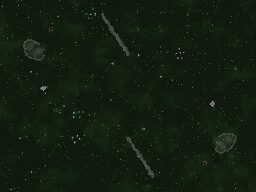
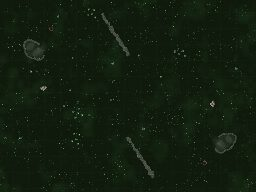
M9 is a mountain: 8 switchbacks, deterministic walls, clear overlays, summit light

diff --git a/game.js b/game.js
@@ -1446,7 +1446,7 @@ const MISSIONS = [
     // emptiness IS the mission's texture).
     title: 'The Silence', act: 'Act II — The Awakening',
     allow: { bld: [], unit: [] },
-    map: 'boneyard', diff: 'normal', noEnemy: true, noBase: true, start: [3950, 3260],
+    map: 'boneyard', diff: 'normal', noEnemy: true, noBase: true, start: [3900, 3380],
     fields: [
       { p: [W * 0.16, H * 0.5], n: 8, a: 2600 },
       { p: [W * 0.84, H * 0.5], n: 8, a: 2600 },
@@ -1459,20 +1459,31 @@ const MISSIONS = [
     // side gates are ridge-plugged for the mission, so the trail and the gate
     // are the ONLY way in — and the only way back out with the survivors.
     terrain: {
-      // HALF-WIDTH TRAIL (2026-08-04 round 2, Bronson: "it needs to be a
-      // challenge... they should fail the mission the first time"): the
-      // corridor squeezes to ~200px — a column, not a formation — with
-      // obstacle pinches at the edges and reinforced tenants at every turn.
+      // THE MOUNTAIN (2026-08-04 round 4, Bronson: "at least 8 switchbacks...
+      // read as a hill climb in its entirety — reach the top, rescue these
+      // idiots, then try and make it down"): eight stacked terrace lanes
+      // (~100px, single file) zigzag up the south face between seven walls
+      // with alternating turn-gaps; vertical walls seal both flanks; the
+      // summit gate is the only exit. `rises` paints the elevation light —
+      // brightest at the peak — so the whole approach reads as climbing.
       ridges: [
-        [4560, 3120, 1600, 3135, 52],   // the bluff: map edge to the hairpin, one wall
-        [1350, 3000, 2300, 2430, 55],   // leg-2 west wall — its south end shapes the hairpin
-        [2200, 3060, 2650, 2500, 55],   // leg-2 east wall, rooted on the bluff — a narrowing funnel
+        [1650, 3298, 3360, 3310, 24],   // W7 — gap WEST  (leg 1 -> 2)
+        [1310, 3154, 3000, 3166, 24],   // W6 — gap EAST  (leg 2 -> 3)
+        [1650, 3010, 3360, 3022, 24],   // W5 — gap WEST
+        [1310, 2866, 3000, 2878, 24],   // W4 — gap EAST
+        [1650, 2722, 3360, 2734, 24],   // W3 — gap WEST
+        [1310, 2578, 3000, 2590, 24],   // W2 — gap EAST
+        [1650, 2434, 3360, 2446, 24],   // W1 — gap WEST  (leg 8 exits to the summit gate)
+        [1240, 2255, 1400, 3400, 42],   // west flank wall (top overlaps the west plug)
+        [3430, 2180, 3400, 3290, 42],   // east flank wall — top buried in the gate plug (a 70px seam leaked round 4)
         [80, 2150, 1250, 2260, 55],     // west gate plug — full span to the edge
         [3400, 2100, 4530, 2330, 55],   // east gate plug — full span to the edge
       ],
-      bones: [[2250, 3330, 42, 0.4], [2000, 2780, 40, -0.7], [2450, 2620, 42, 1.1]],
-      boulders: [[3300, 3300, 24], [2900, 3360, 22], [1500, 3300, 26], [2150, 2650, 22], [1850, 2900, 20]],
-      pits: [[2700, 3340, 30]],
+      rises: [[2304, 480, 950, 1], [2304, 1500, 1250, 0.7], [2304, 2700, 1500, 0.45], [2650, 3350, 900, 0.3]],
+      clear: [[2765, 2696, 70]],   // boneyard's own tree sat in lane 6
+      // decor only ON the wall lines — at ~90px lanes any freestanding rock
+      // is a plug, not a slalom (a pit here sealed leg 1 outright)
+      bones: [[2400, 3304, 40, 0.1], [2000, 2872, 38, -0.2], [2800, 2590, 38, 0.15]],
     },
     brief: [
       ['red', 'Expedition command, Rubicon Actual. Outpost K-7 stopped reporting eleven hours ago. Mid-sentence, mid-word. I have nobody spare to send, and I am… asking.'],
@@ -1496,23 +1507,26 @@ const MISSIONS = [
       { id: 'bunker',  text: 'Search the command bunker', type: 'reach', x: 2304, y: 300, r: 170, hidden: true, mark: [2304, 300] },
       { id: 'east',    text: 'Search the refinery works', type: 'reach', x: 2634, y: 450, r: 170, hidden: true, mark: [2634, 450] },
       // any three living engineers count — they ARE the only engineers here
-      { id: 'extract', text: 'Get all three survivors back down the trail to the LZ', type: 'groupReach', unit: 'engineer', x: 3950, y: 3300, r: 220, count: 3, hidden: true, mark: [3950, 3300] },
+      { id: 'extract', text: 'Get all three survivors back down the trail to the LZ', type: 'groupReach', unit: 'engineer', x: 3900, y: 3390, r: 200, count: 3, hidden: true, mark: [3900, 3390] },
     ],
     winWhen: ['camp', 'west', 'bunker', 'east', 'extract'],
     triggers: [
       { when: { time: 0.5 },
         spawn: [
-          { group: 'boone', unit: 'commando', team: 1, n: 1, at: [3950, 3240] },
-          { group: 'squad', unit: 'marine', team: 1, n: 6, at: [3950, 3300] },
-          { group: 'squad', unit: 'rocket', team: 1, n: 3, at: [3860, 3350] },
-          { group: 'squad', unit: 'sniper', team: 1, n: 1, at: [4040, 3350] },
-          { group: 'squad', unit: 'medic',  team: 1, n: 2, at: [3950, 3390] },
+          { group: 'boone', unit: 'commando', team: 1, n: 1, at: [3860, 3360] },
+          { group: 'squad', unit: 'marine', team: 1, n: 6, at: [3940, 3400] },
+          { group: 'squad', unit: 'rocket', team: 1, n: 3, at: [3850, 3430] },
+          { group: 'squad', unit: 'sniper', team: 1, n: 1, at: [4030, 3430] },
+          { group: 'squad', unit: 'medic',  team: 1, n: 2, at: [3940, 3440] },
           // the trail has tenants at every turn: mid-leg picket, hairpin
           // post, a raptor pack on the climb, a picket at the camp mouth
-          { unit: 'spitter', team: 3, n: 2, at: [2600, 3330], order: 'guard' },
-          { unit: 'spitter', team: 3, n: 3, at: [1480, 3230], order: 'guard' },
-          { unit: 'raptor',  team: 3, n: 3, at: [2170, 2760], order: 'guard' },
-          { unit: 'spitter', team: 3, n: 3, at: [2400, 2330], order: 'guard' },
+          { unit: 'spitter', team: 3, n: 2, at: [2600, 3390], order: 'guard' },
+          { unit: 'spitter', team: 3, n: 2, at: [1560, 3230], order: 'guard' },
+          { unit: 'spitter', team: 3, n: 2, at: [3230, 3090], order: 'guard' },
+          { unit: 'raptor',  team: 3, n: 3, at: [2300, 2940], order: 'guard' },
+          { unit: 'spitter', team: 3, n: 2, at: [1570, 2660], order: 'guard' },
+          { unit: 'raptor',  team: 3, n: 2, at: [2500, 2510], order: 'guard' },
+          { unit: 'spitter', team: 3, n: 3, at: [2300, 2290], order: 'guard' },
           // the things that cleared K-7 are still IN it: raptor packs hold
           // the streets, spitters squat the flanks — guards, visible, real
           { unit: 'raptor',  team: 3, n: 4, at: [2154, 525],  order: 'guard' },
@@ -1535,7 +1549,7 @@ const MISSIONS = [
           { egg: [2070, 720] }, { egg: [2475, 570] }, { egg: [2340, 780] },
           { egg: [1950, 330] }, { egg: [2550, 270] },
         ] },
-      { when: { near: [3200, 3330, 330] },
+      { when: { near: [2900, 3390, 300] },
         say: [['sci', 'No birds. No grazers. The bone flats are never this quiet — everything that could leave already left.'],
               ['cdo', 'Single file on the trail. Eyes up.']] },
       { when: { done: ['camp'] }, objective: ['west', 'bunker', 'east'],
@@ -1586,15 +1600,15 @@ const MISSIONS = [
               ['ops', 'The whole northern sky just lifted off the roosts. They know you have them — south, and do not stop for anything.']] },
       // the long walk home, contested the whole way, from both flanks
       { when: { done: ['west', 'bunker', 'east'], notDone: ['extract'] }, delay: 25, repeat: true, every: 45,
-        spawn: { unit: 'screecher', team: 3, n: 2, at: [2100, 90], to: [2400, 2560] } },
+        spawn: { unit: 'screecher', team: 3, n: 2, at: [2100, 90], to: [1600, 2650] } },
       { when: { done: ['west', 'bunker', 'east'], notDone: ['extract'] }, delay: 45, repeat: true, every: 60,
-        spawn: { unit: 'screecher', team: 3, n: 2, at: [3750, 450], to: [3200, 3250] } },
+        spawn: { unit: 'screecher', team: 3, n: 2, at: [3750, 450], to: [3100, 3000] } },
       { when: { done: ['west', 'bunker', 'east'], notDone: ['extract'] }, delay: 70, repeat: true, every: 85,
-        spawn: { unit: 'raptor', team: 3, n: 2, at: [1554, 1770], to: [1700, 3200] } },
+        spawn: { unit: 'raptor', team: 3, n: 2, at: [1554, 1770], to: [2300, 3390] } },
       // the LZ itself is contested — clear it and hold for the transport
-      { when: { near: [3300, 3200, 320], done: ['west', 'bunker', 'east'] },
+      { when: { near: [3500, 3350, 300], done: ['west', 'bunker', 'east'] },
         alarm: '⚠ Wings over the extraction point!',
-        spawn: { unit: 'screecher', team: 3, n: 5, at: [4300, 2800], to: [3950, 3300] },
+        spawn: { unit: 'screecher', team: 3, n: 5, at: [4300, 2800], to: [3900, 3390] },
         say: [['ops', 'Wings on the LZ — clear the air and hold for the transport!']] },
       // the squad is small and the survivors are the mission — and Lighthouse
       // does not get left in the silence
@@ -2573,8 +2587,12 @@ function setup(mapKey) {
       const t = i / n;
       // ridge-tagged: collision as always, but paintRock skips them — the
       // whole segment paints as ONE continuous elevated wall in paintRidges
-      // (2026-08-04, Bronson: "actual elevation, not little disks")
-      rocks.push({ x: x1 + (x2 - x1) * t, y: y1 + (y2 - y1) * t, r: r * (0.85 + Math.random() * 0.3), ridge: true });
+      // (2026-08-04, Bronson: "actual elevation, not little disks").
+      // DETERMINISTIC jitter (was Math.random): random radii rerolled every
+      // wall each game, so ~200px mission corridors opened or closed per run
+      // — undebuggable, and a fixed map should be fixed.
+      const jit = Math.sin(x1 * 12.9898 + y1 * 78.233 + i * 37.719) * 43758.5453;
+      rocks.push({ x: x1 + (x2 - x1) * t, y: y1 + (y2 - y1) * t, r: r * (0.85 + (jit - Math.floor(jit)) * 0.3), ridge: true });
     }
   }
   // fire vents (2026-08-04): burning ground — passable, but ground units
@@ -2605,7 +2623,18 @@ function setup(mapKey) {
     }
   }
   for (const [tx, ty] of (M.trees || [])) {
-    rocks.push({ x: tx, y: ty, r: 15 + Math.random() * 4, tree: true, dead: deadWood });
+    const tj = Math.sin(tx * 12.9898 + ty * 78.233) * 43758.5453;
+    rocks.push({ x: tx, y: ty, r: 15 + (tj - Math.floor(tj)) * 4, tree: true, dead: deadWood });
+  }
+  // mission terrain may also CLEAR map furniture: `terrain.clear: [[x,y,r]]`
+  // deletes non-water, non-cliff rocks inside each circle (M9's lane ran
+  // through one of boneyard's own trees — a corridor mission has to be able
+  // to prune the furniture it builds through)
+  for (const [cx2, cy2, cr2] of (mt.clear || [])) {
+    for (let i = rocks.length - 1; i >= 0; i--) {
+      const rk = rocks[i];
+      if (!rk.water && !rk.cliff && dist2(rk.x, rk.y, cx2, cy2) < cr2 * cr2) rocks.splice(i, 1);
+    }
   }
   // obstacle variety beyond rock walls (playtest 2026-07-24): crystalline
   // spires, buried ribcages, sinkholes — all rocks mechanically, distinct art
@@ -5749,6 +5778,22 @@ function paintGround(M) {
         g.fillStyle = bushHiC;
         g.beginPath(); g.arc(x - r * 0.25, y - r * 0.3, r * 0.55, 0, Math.PI * 2); g.fill();
       }
+    }
+  }
+  // elevation light (`rises`, map- or mission-terrain): soft radial lift
+  // tones, brightest at a summit — gradient-only per the ramp lesson (any
+  // hard edge here reads as a glitch). Paint-only: no collision, no elev
+  // grid — it exists to make a whole approach READ as climbing (M9's
+  // mountain, 2026-08-04).
+  {
+    const mtr = (missionNow() && missionNow().terrain) || {};
+    for (const [rx, ry, rr, rs] of (((M && M.rises) || []).concat(mtr.rises || []))) {
+      const grad = g.createRadialGradient(rx, ry, 0, rx, ry, rr);
+      grad.addColorStop(0, `rgba(220,238,222,${0.20 * rs})`);
+      grad.addColorStop(0.65, `rgba(206,230,212,${0.10 * rs})`);
+      grad.addColorStop(1, 'rgba(205,228,210,0)');
+      g.fillStyle = grad;
+      g.beginPath(); g.arc(rx, ry, rr, 0, Math.PI * 2); g.fill();
     }
   }
   // worn haul roads (MAPS.roads polylines): packed-earth band, a dusty crown,

diff --git a/CLAUDE.md b/CLAUDE.md
@@ -35,7 +35,7 @@ A tiny browser RTS in the spirit of Command & Conquer / StarCraft 2, built for a
 
 ## Game snapshot (as of 2026-07-09)
 
-- **M9 CLIFFSIDE REWORK + mission terrain overlays + a night of Bronson art direction (2026-08-04 late).** (1) **M9 "The Silence" repaced 3min→target 12-15** (Bronson: "absolutely unacceptable"): squad lands SE corner and climbs a WALLED SWITCHBACK TRAIL (west along the bluff foot, hairpin NE to the center gate — side gates ridge-plugged mission-only), three survivors in three SEPARATE shelters across the camp width (vehicle bay / command bunker / refinery works — reach objectives; each rescue spawns its `s1/s2/s3` engineer hpMul 2 = 120hp + a screecher response), third rescue raises the FLOCK (6 wings + a raptor pack closing the gate behind you) then a two-flank contested walk home + LZ wings. Trail has tenants (spitter/raptor posts) + bones/boulders/pits to slalom; camp has raptor street packs. Squad grew to 13 (6m/3r/1s/2med + Boone). Lose: squad<3, boone, ANY survivor dies (three groupBelow rules — null-safe pre-spawn). (2) **Mission terrain overlays**: mission `terrain: {ridges,boulders,bones,pits,vents}` appends to the map's own in setup AND paintGround (colliders without paint = invisible walls) — skirmish on the shared map never sees them. (3) **GOTCHA that killed the whole script: TDZ.** paintGround's overlay code read `mission` (a `let` declared thousands of lines later); the cold-load art-repaint path calls paintGround before that let initializes → "Cannot access 'mission' before initialization" at top level = game.js DIES silently (menu renders, CC undefined, `typeof started` throws). Fix: `missionNow()` try/catch reader. Debug pattern that found it: errtest.html harness installing a window error listener BEFORE game.js (console showed nothing). (4) **Screechers WHEEL now**: attack case orbits the prey (fixed per-bird direction, banking radius 0.72-0.9×range, flap cycle driven) instead of hovering. (5) **Ridge/rim polish from live art direction**: ridge slabs capped inside the collision envelope + face extrusion halved (units read as "standing on" painted rock that had no collider), ghosts no longer slip ridge rocks (cliff rule extended), plateau cliff rims rebuilt as angular faceted slabs (rim v2 — same rock family as ridges), dead-tree sprite darkened 0.53 multiply (white starburst on ash, same fix as the July sinkhole), river CONFLUENCES don't flare (an endpoint landing in another channel suppresses the delta-mouth flare — two overlapping flares ballooned at junctions). Trail-enforcement verified (hairpin+leg2 ridden, both gate plugs hold — round 2: plugs must span TO THE MAP EDGE), full M9 chain + win + survivor-death loses, zero errors. **ROUND 3 same night (Bronson: "half as wide... they should fail the first time... at least 10 min"): trail narrowed to a ~200px column** — one continuous bluff edge-to-hairpin, leg-2 walls form a narrowing funnel rooted on the bluff (a pocket-mouth corner in round 2 leaked straight north into midfield: rebuilt as one wall, not a pocket), LZ moved to [3950,3300], tenants reinforced (2/3/3/3 posts on the trail, camp packs 4+3), flock 8, cadences 45/60/85, LZ wings 5. Enforcement round 3 passes ALL probes (leg-1 west + hairpin + leg-2 + no cuts, 1800 ticks unopposed one-way) and all 13 squad members thread the pinches unwedged in 3200 ticks. PACING STILL NEEDS BRONSON'S HANDS — the "fail the first time" bar is his stopwatch to judge. Climbable-ridge-with-2-slot idea PARKED (real mechanic: occupancy reservation + slope side).
+- **M9 CLIFFSIDE REWORK + mission terrain overlays + a night of Bronson art direction (2026-08-04 late).** (1) **M9 "The Silence" repaced 3min→target 12-15** (Bronson: "absolutely unacceptable"): squad lands SE corner and climbs a WALLED SWITCHBACK TRAIL (west along the bluff foot, hairpin NE to the center gate — side gates ridge-plugged mission-only), three survivors in three SEPARATE shelters across the camp width (vehicle bay / command bunker / refinery works — reach objectives; each rescue spawns its `s1/s2/s3` engineer hpMul 2 = 120hp + a screecher response), third rescue raises the FLOCK (6 wings + a raptor pack closing the gate behind you) then a two-flank contested walk home + LZ wings. Trail has tenants (spitter/raptor posts) + bones/boulders/pits to slalom; camp has raptor street packs. Squad grew to 13 (6m/3r/1s/2med + Boone). Lose: squad<3, boone, ANY survivor dies (three groupBelow rules — null-safe pre-spawn). (2) **Mission terrain overlays**: mission `terrain: {ridges,boulders,bones,pits,vents}` appends to the map's own in setup AND paintGround (colliders without paint = invisible walls) — skirmish on the shared map never sees them. (3) **GOTCHA that killed the whole script: TDZ.** paintGround's overlay code read `mission` (a `let` declared thousands of lines later); the cold-load art-repaint path calls paintGround before that let initializes → "Cannot access 'mission' before initialization" at top level = game.js DIES silently (menu renders, CC undefined, `typeof started` throws). Fix: `missionNow()` try/catch reader. Debug pattern that found it: errtest.html harness installing a window error listener BEFORE game.js (console showed nothing). (4) **Screechers WHEEL now**: attack case orbits the prey (fixed per-bird direction, banking radius 0.72-0.9×range, flap cycle driven) instead of hovering. (5) **Ridge/rim polish from live art direction**: ridge slabs capped inside the collision envelope + face extrusion halved (units read as "standing on" painted rock that had no collider), ghosts no longer slip ridge rocks (cliff rule extended), plateau cliff rims rebuilt as angular faceted slabs (rim v2 — same rock family as ridges), dead-tree sprite darkened 0.53 multiply (white starburst on ash, same fix as the July sinkhole), river CONFLUENCES don't flare (an endpoint landing in another channel suppresses the delta-mouth flare — two overlapping flares ballooned at junctions). Trail-enforcement verified (hairpin+leg2 ridden, both gate plugs hold — round 2: plugs must span TO THE MAP EDGE), full M9 chain + win + survivor-death loses, zero errors. **ROUND 4, THE MOUNTAIN (Bronson: "at least 8 switchbacks... read as a hill climb in its entirety — reach the top, rescue these idiots, then try and make it down"): the whole south half of boneyard is now an 8-lane switchback ladder** — seven r24 terrace walls with alternating turn-gaps, flank walls both sides (every wall end BURIED ≥100px into its flank: near-touching endpoints leak, lesson re-learned ×3), summit gate = the center gate, LZ pocket bottom-right at [3900,3390]. **THREE ENGINE LESSONS PAID FOR HERE:** (1) `Math.random()` in ridge/tree radii rerolled the walls EVERY GAME — ~200px corridors opened or closed per run, making fixes untestable; ridge + single-tree jitter is now DETERMINISTIC hash (fixed map = fixed map). (2) Lane-pitch pathability math: grid inflates rocks +22px and findPath refuses corner cuts, so a lane needs wallR_max+22+16 ≤ pitch/2 per side — at 144px pitch that means r≤24 walls, and ANY freestanding obstacle (pit r26!) plugs the lane; decor lives ON wall lines only. (3) Map furniture doesn't move for missions — boneyard's own ribcage + a tree sat in the lanes; mission overlays gained `clear: [[x,y,r]]` (prunes non-water/non-cliff rocks) and east pockets widened around the ribcage (now an in-pocket slalom, which is what he asked for anyway). Debug kit that cracked it: 4-neighbor flood-fill from the LZ + ASCII grid dumps of the break region + rock-culprit queries at blocked tiles — analytical geometry guessing failed five straight times; the grid never lied. `rises` paint overlay (gradient-only elevation light, brightest at the summit) sells the climb; intensity doubled after the first bird's-eye read. Verified: flood connects LZ→camp, live raider rides ALL 8 legs (~3600 ticks unopposed one-way), 13-squad threads the r24 lanes 13/13 (~6800 ticks), full chain + win, zero errors.**ROUND 3 same night (Bronson: "half as wide... they should fail the first time... at least 10 min"): trail narrowed to a ~200px column** — one continuous bluff edge-to-hairpin, leg-2 walls form a narrowing funnel rooted on the bluff (a pocket-mouth corner in round 2 leaked straight north into midfield: rebuilt as one wall, not a pocket), LZ moved to [3950,3300], tenants reinforced (2/3/3/3 posts on the trail, camp packs 4+3), flock 8, cadences 45/60/85, LZ wings 5. Enforcement round 3 passes ALL probes (leg-1 west + hairpin + leg-2 + no cuts, 1800 ticks unopposed one-way) and all 13 squad members thread the pinches unwedged in 3200 ticks. PACING STILL NEEDS BRONSON'S HANDS — the "fail the first time" bar is his stopwatch to judge. Climbable-ridge-with-2-slot idea PARKED (real mechanic: occupancy reservation + slope side).
 - **Ridges are WALLS now, fire is a level lever, and Exodus Road is the first corridor map (2026-08-04 night, Bronson: "actual elevation, not little disks" + "push the player specific directions").** (1) **paintRidges**: ridge segments paint as ONE continuous mesa wall each (hash-noise jagged edges, faceted rock top slabs, clustered cracks, talus boulders at the shadow foot, downhill drop shadow) — ridge-tagged rocks are skipped by paintRock. V1 (smooth sine band + ruler-tick strata) shipped for ~10 minutes and Bronson's live "wtf is this?" was correct — it read as a slug/highway; the v2 rewrite is the keeper pattern: jagged hash noise over smooth sine, faceted patches over continuous bands. (2) **Fire vents** (`MAPS.vents: [[x,y,r]]`): passable burning ground — ground units inside take VENT_DMG 0.09/tick (flyers immune), no placement on them (canPlaceBuilding + aiSpotFree), baked scorch + glowing fissures in paintGround, pulsing glow + drifting embers per-frame in drawVents, ember-orange minimap dots. The level-design SOFT wall: shortcuts you pay for in blood. (3) **MAPS.exodus "Exodus Road"** (roster #12, M12's home): night-swamp palette, a Z-shaped causeway artery SW→NE walled by water channels + ridge bluffs, two elbow chokes (elbow-2 holds the mega field + nest), two pocket fields off the road, a 3-vent flare line across the middle leg (thread the ~40px seams, hug the east lane, or burn), the exodus road polyline running the full artery. **CORRIDOR-SEALING METHOD (the lesson): author walls, then run the enforcement test — a corner-to-corner raider whose trail must pass BOTH elbows and no cut regions.** Took 3 rounds: first run cut the open west-middle (pocket-A north unsealed), second still threaded a ~200px seam between the seal channel and leg-2's west wall (fix: overlap them; near-touching endpoints always leak). Verified: corridor enforced, both pockets reachable, vent burn 10.8hp/2s on marines + 0 on flyers, AI base functions on the map, 7k soak clean, zero console errors. Thumbnails ×12 regenerated. 144×108 tiles / 4608×3456 px (2026-08-04, Bronson: "maps need to increase by 50%" — lands almost exactly on Brood War's standard 128×128 scale and serves the 20–30-min match goal).** Third size in the project's history (64×48 → 96×72 → 144×108). Two-part migration, NEVER split: (1) MAP_W/MAP_H constants — all MAPS layouts are W/H-relative and rescaled free; (2) **every absolute px coordinate in MISSIONS ×1.5** via scripted regex over the block (patterns: `at/to/mark/focus/start/egg: [N,N]`, `near: [N,N,N]` incl. radius — route-corridor scale, `x: N, y: N` objective pairs, mission `patches` and M5's absolute `fields` p:). ~203 coordinate groups. Radii/leashes/sights/standoffs are GAMEPLAY-scale and deliberately unscaled; objective r values unscaled (targets sit at circle centers). A* guard 40000→90000 (2.25× the cells). Verified same night: 11/11 base-to-base crossings (tanks detour fen/hwm/mine water+terraces, zero water contact), dam placeable on the rescaled hwm channel (10/11 probed rocks; GOTCHA: canPlaceBuilding signature is (type,wx,wy) — no team arg — and it enforces tech + cost + scouted corners, so probe with devMode ON + crystals granted + vision stamped), M1–M3 soaks, M4 full build-chain + surges, M5/M7/M8/M9 full chains (M7 twin dens land at scaled [4140,1770]/[1995,1728] both dry; M9 beats at y 2250/930/645/315 + LZ [2304,3225]), M6 silo latch + expiry lose, basin-hard 9k + fen-hard 7k soaks (0 drowned, no NaN), zero console errors. Thumbnails regenerated. Base-to-base now 3056–5173px (was ~2000–3450). PACING NOT YET PLAYTESTED — economy round-trips and wave travel times all lengthened; Bronson's next skirmish run is the acceptance test, and wave cadence/patch sizes are the knobs if it drags. — 4th cast member + hero commando (2026-08-04, Bronson's ask: male, quiet-leader callsign; a woman operator is banked for the commando DLC).** CAST `cdo` (MSGT. BOONE, moss-green, monogram B; portrait slot assets/portraits/cdo.png — prompt + voice brief appended to PORTRAITS.md). **THE CHARACTER RULE: he barely speaks — one short sentence at most, flat calm, and only when it matters** (Vega's intro line carries the thesis: "He does not say much. He does not need to."). `UNIT.commando` hero (hp 160, dmg 16, sight 280, speed 2.0, cost/supply 0, NOT in any trains list — mission-granted; the DLC gets the buildable version). Art: drawUnitSprite aliases commando→marine art (walk frames included) until unit_commando slots land — his own art wins the moment it exists; drawUnitDecor gives him upright gold master-sergeant chevrons meanwhile. Leads BOTH commando missions: M5 + M9 spawn him in group 'boone' with a `groupBelow ['boone',1]` lose trigger each (hero dies = mission fails, C&C commando rule). M9 gave him the ground voice (camp-edge "the street is theirs", first-contact "Rockets up. Watch the lanes.", outro "It let us leave."); M5 got the brief intro + LZ line ("Light's on. Everybody home."). Verified: both missions spawn him, M9 full chain with him alive, hero-death loses both, no commando leak into skirmish, zero console errors (the 404 burst on mission load is his unvoiced `cdo_*` voice probes — designed fallback). NOTE: regenerate voice-script.tsv before Bronson's next voice batch (new speaker + M9 lines shift per-speaker row numbering); Boone needs an ElevenLabs voice pick (brief in PORTRAITS.md).
 - **Support units ignore attack commands + M5 secondary cut (2026-08-01, Bronson playtest round 2 same day).** (1) **`isSupport(u)` (medic/engineer, next to isCombat)** — keyed by TYPE, not dmg, because the engineer carries a token `dmg: 2` melee poke that slipped it past every `dmg <= 0` guard (medics held, engineers charged). Three gaps closed: commandMove now routes support through 'attackmove' on A-move (plain 'move' beelined them THROUGH the firing line to the destination — the Jul 29 standoff branch was unreachable from the A-move command path), commandAttack skips support entirely (right-clicked enemies used to send engineers on a 22px-poke chase), and the attackmove standoff branch takes `dmg <= 0 || isSupport` so engineers hold at SUPPORT_STANDOFF (190) behind the escorts. Explicit right-click repair (commandRepair) and idle auto-repair/heal untouched. Verified: A-move past enemies = both hold ~380px behind the marines (medic auto-heals from there), squad right-click = marines attack while support ignores it. (2) **M5's optional fuel-dump objective CUT same day it shipped** (Bronson: "kill the secondary mission" — the difficulty pass alone landed where he wanted). Dump building, cache objective, valve triggers, and Lin's two dump lines all removed; the destroy pre-latch pass STAYS (generic, protects the M6 fix). Exfil pursuit is one fixed cadence now. East-bank picket guards kept. **Round 3 (same day, Bronson: "a bit less difficult"):** relay screens trimmed 3→2 marines each (16 Rubicon troops, from 22 — snipers/rockets kept, they're the posts' identity), patrol 80s/n3→95s/n2, post-relay sweep 70s/n3→85s/n2, LZ platoon 4→3 marines + sniper, pursuit marines 50s→60s + raiders 70s→85s. The difficulty ladder that landed: 11 troops = <4-min speedrun, 22 = too hard, 16 + softer cadences = the shipping shape (pending his verdict). Full M5 chain + skirmish re-verified each round, zero console errors.
 - **M5 difficulty pass + objective UX + won-is-won (2026-08-01, Bronson speedran Ghost Survey in <4 min and hung on an unmarked relay).** (1) **groupDead objectives now show a kill count** ("3/4" in the HUD via objProgress reading the group's fixed roster) and **their beacons track SURVIVORS** — `objMarks(o)` returns living group members' positions for groupDead objectives with a mark (world beacons + minimap rings both use it); the authored `mark` is only the pre-spawn fallback, and no-mark objectives stay unmarked (M1's reprisal must not leak positions). Root cause of the playtest hang: the only beacon pulsed forever over the FIRST relay's rubble while the 4th sat in fog. (2) **M5 rebalance**: every relay properly garrisoned (marine screens + a sniper or rocket each, 22 Rubicon troops total, was 11), wild spitter guard packs at the center field + SE bank (guards, NOT nests — the no-nests-on-the-causeway rule stands), patrol/sweep cadences tightened, and Krauss's promised platoon actually LANDS on the east LZ (4 marines + sniper) when the lab falls. (3) **Optional objective machinery proven**: 'cache' (torch the fuel dump, `destroy` type, NOT in winWhen) gates the exfil pursuit between a heavy cadence (45s/60s waves) and a light one (95s) via done/notDone trigger pairs — the optional IS the valve. (4) **destroy pre-latch**: objMet now runs a seen-latch pass for ALL undone destroy objectives each missionUpdate tick, so a target razed BEFORE its objective reveals still counts (the M6 tick-0 false-complete fix is preserved — a target that never existed never latches). (5) **Won is won**: once `ms.outroDone` is set (all winWhen objectives done), NO defeat path may fire — trigger `lose`, deadline `onExpire:'lose'`, and checkEnd's HQ-loss/noBase-last-unit rules all guard on it. Found live: M5's exfil latched, outro playing, LZ garrison gunned down a straggler → MISSION FAILED mid-victory-speech. Verified: full M5 chain incl. total squad wipe during the outro still completing, cache valve both intensities, M6 deadline expiry still losing + silo not auto-done, M1 + skirmish soaks clean. GOTCHA for tests: CC.startMission leaves the help modal open (`paused` true) and syncVoicePause freezes voiced clips — a voiced outro line then NEVER releases and the win drain guard blocks forever; close the help modal before stepping to a win. Map size is engine-global (96×72 tiles) — "make the map bigger" per-mission is not a lever; route density is.
